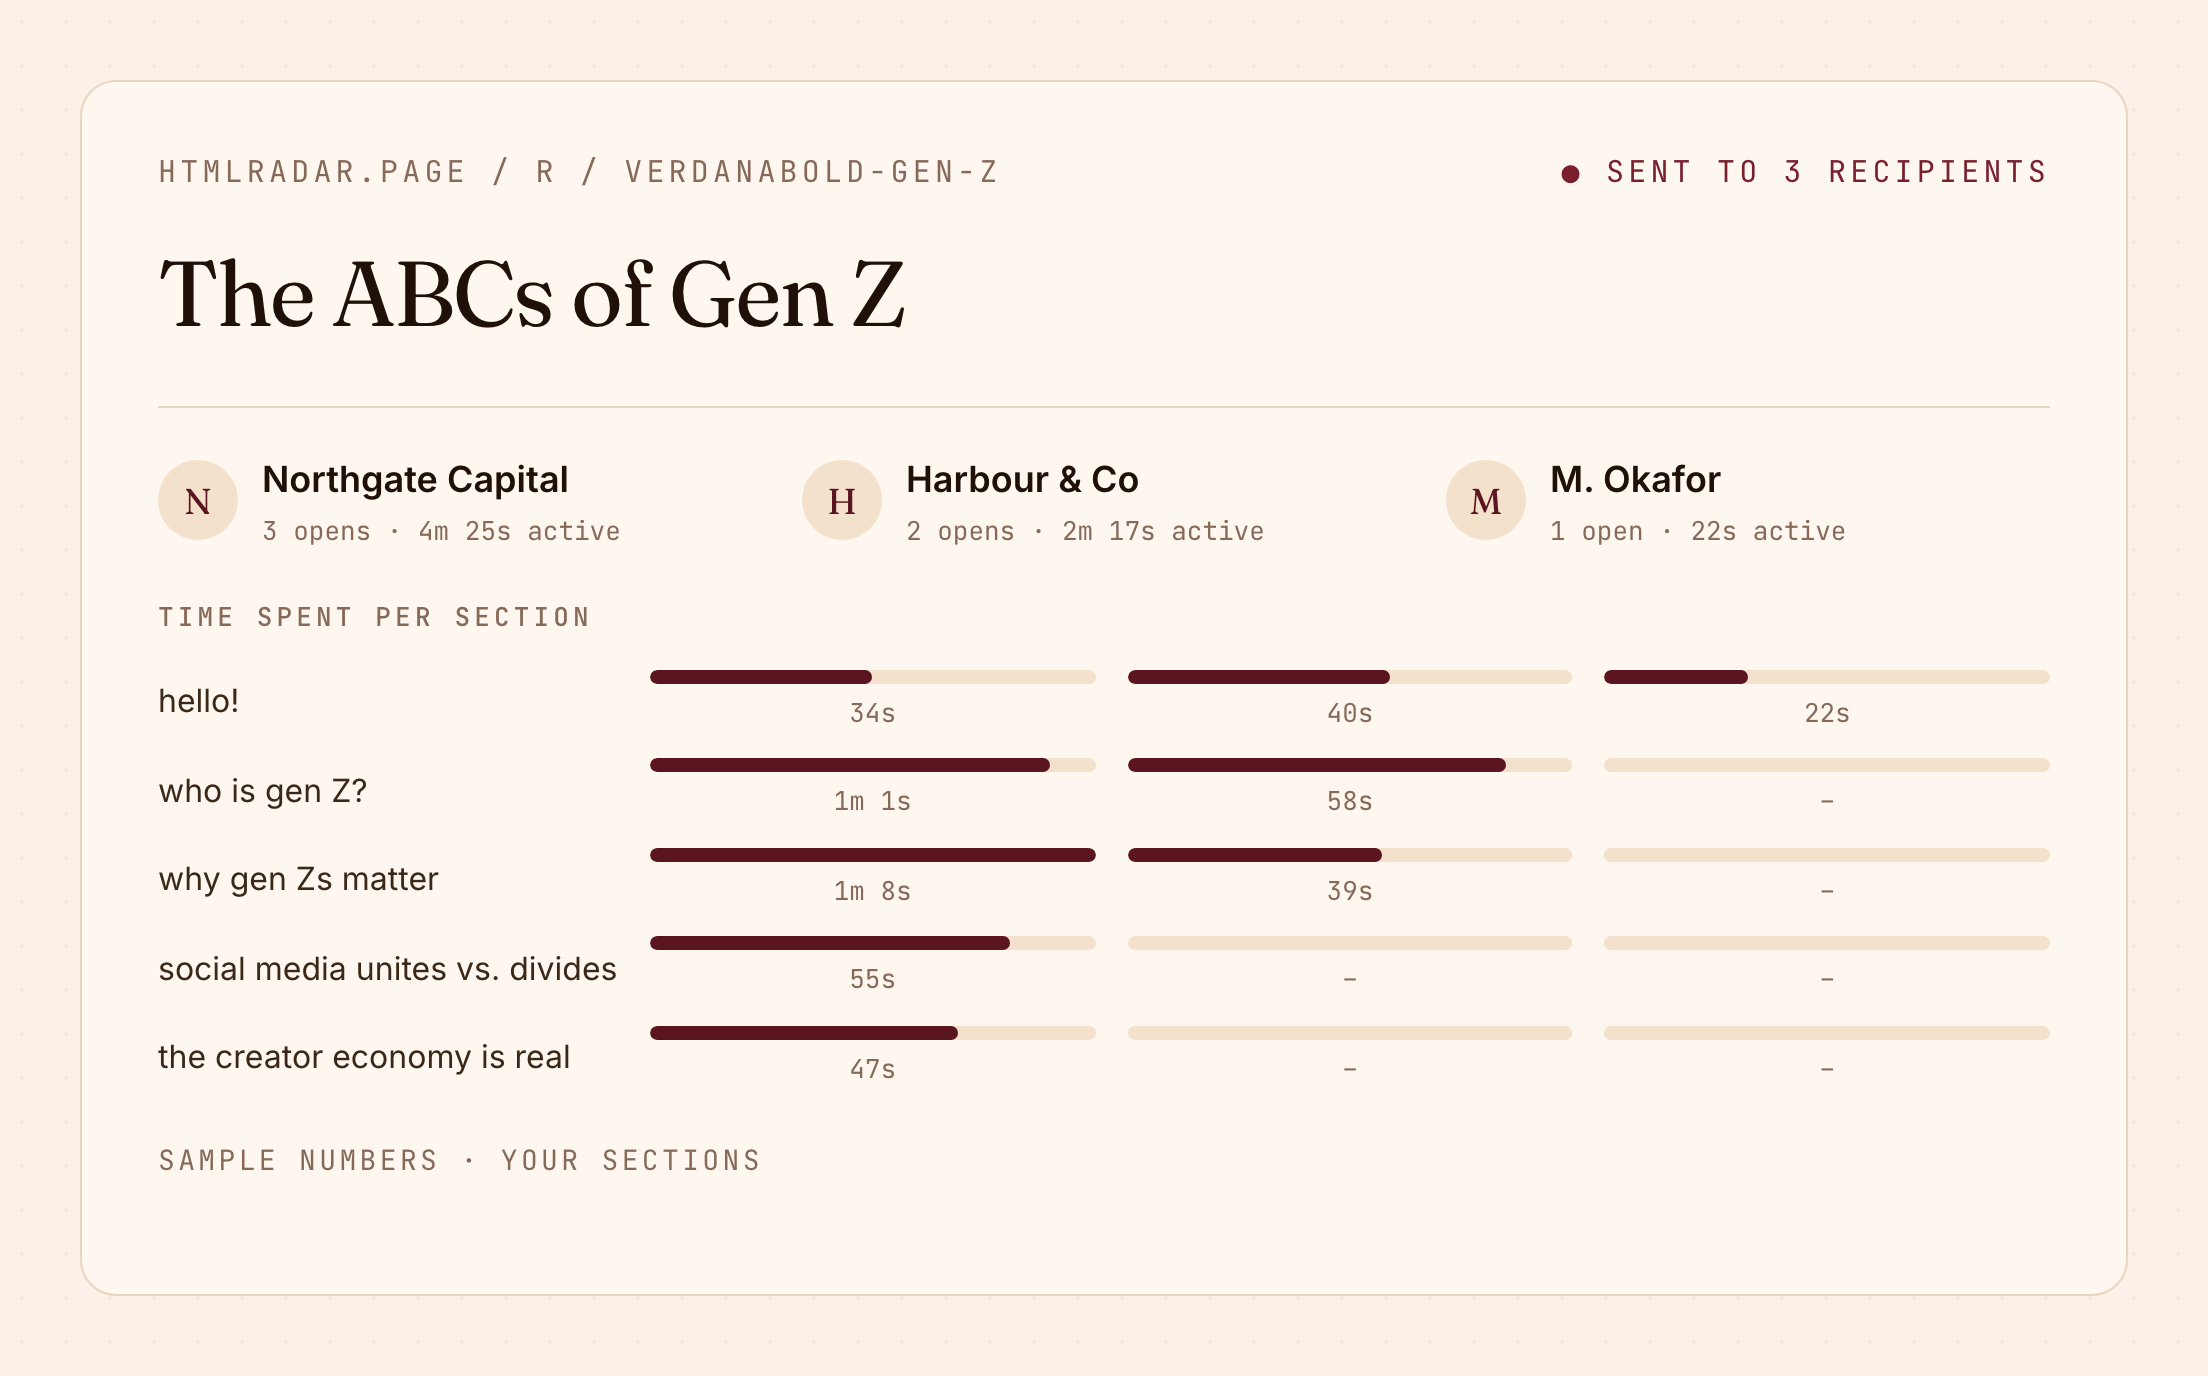
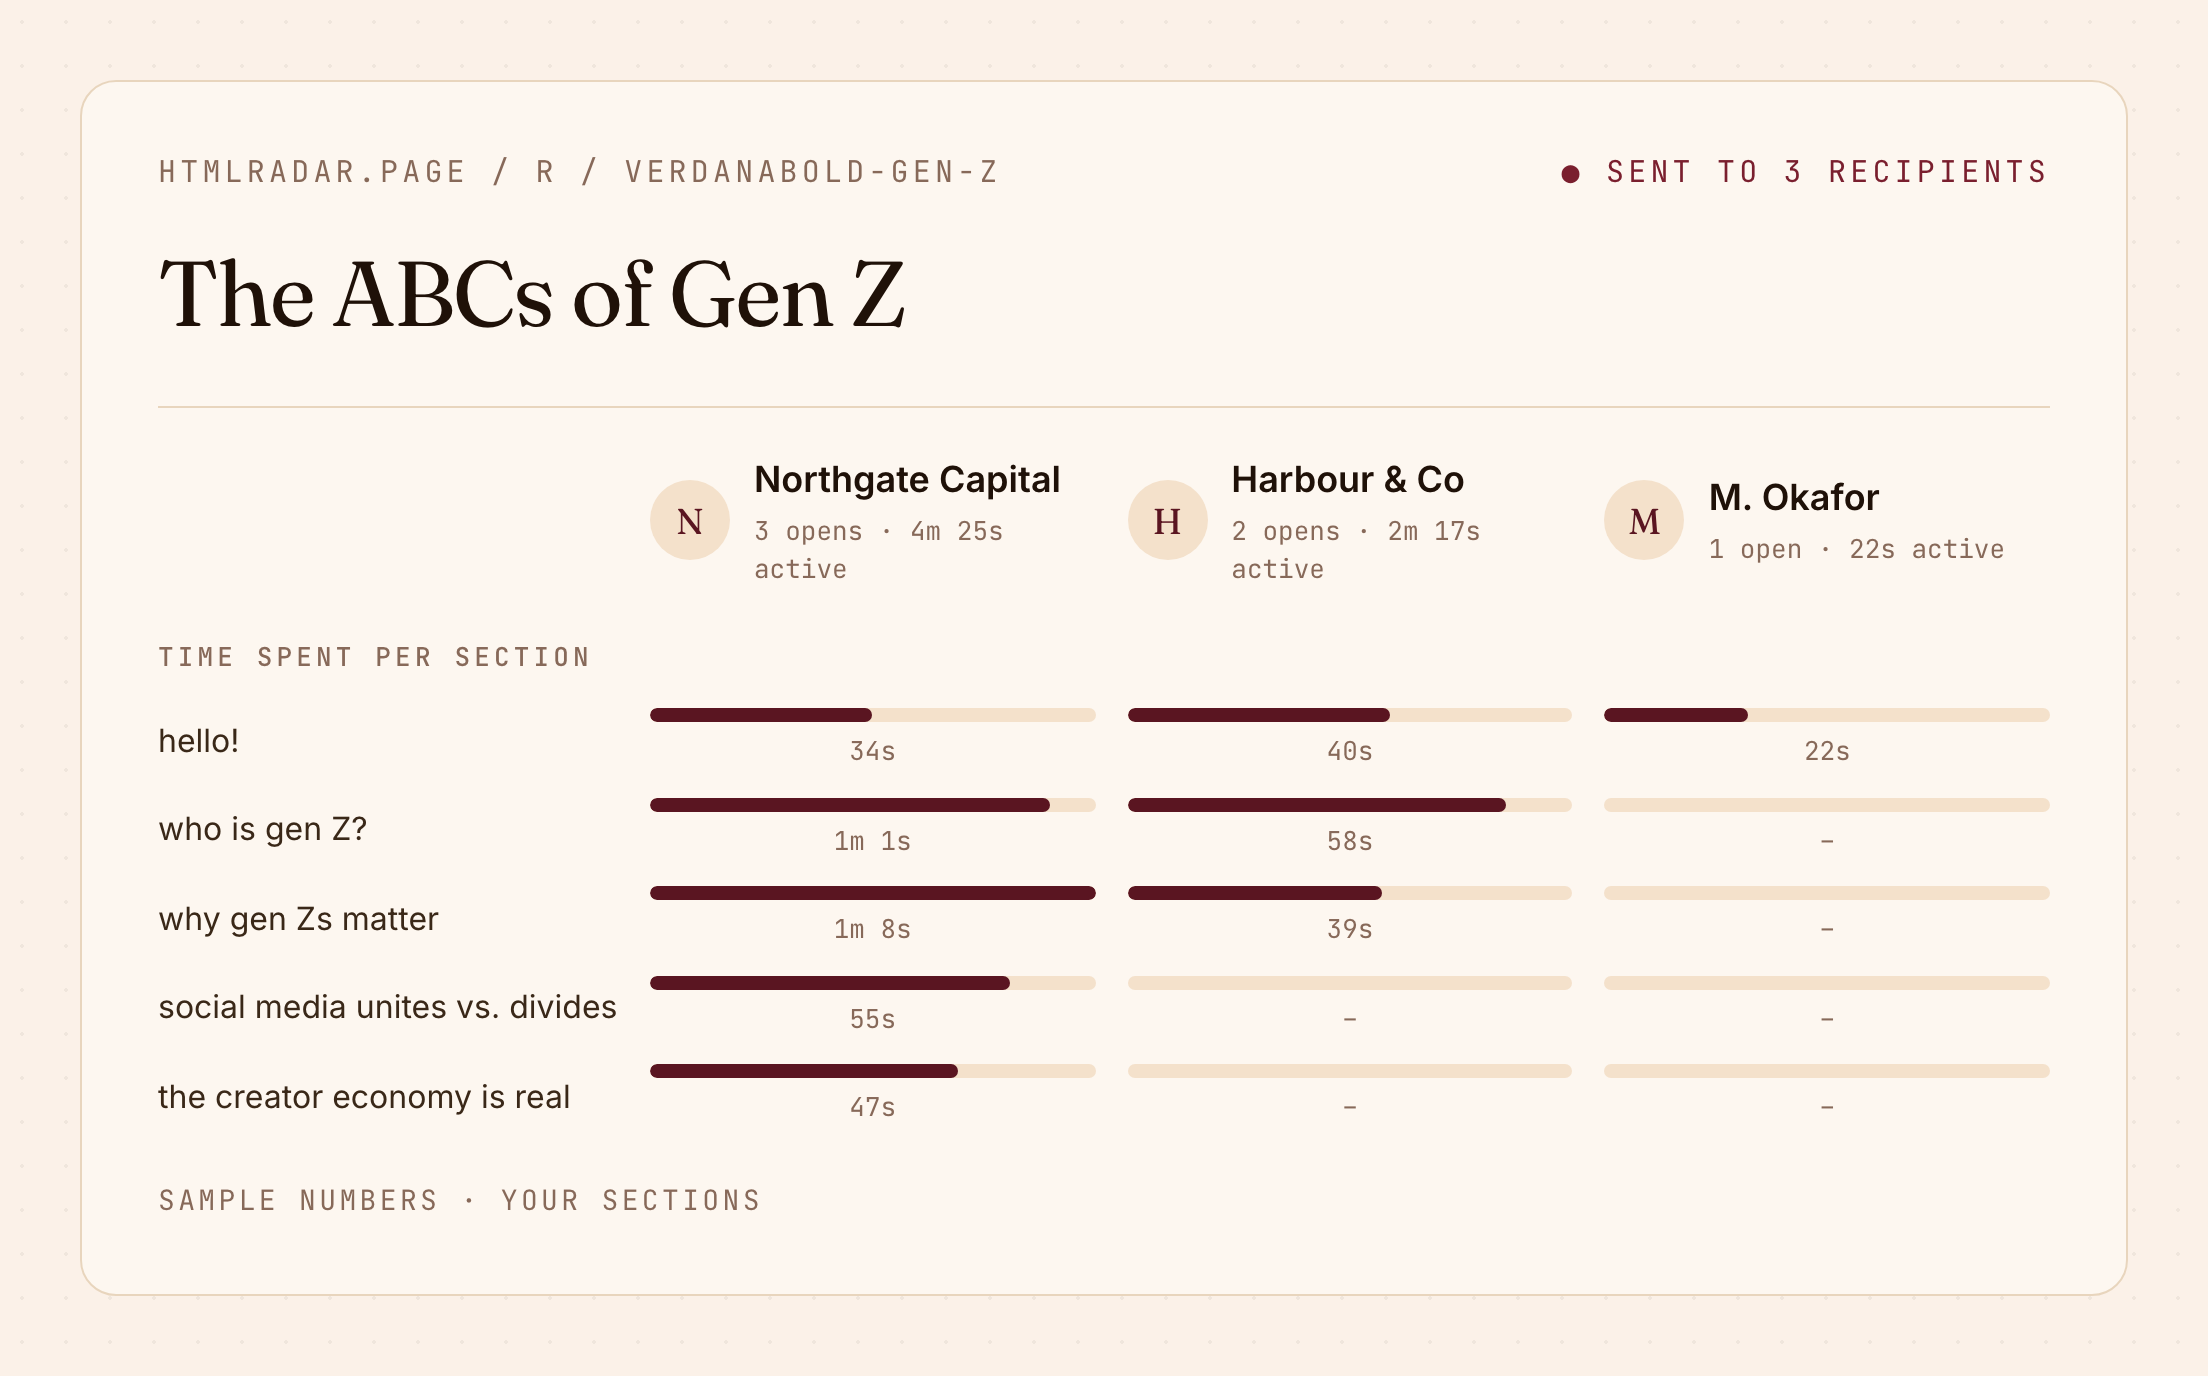
brand: outreach report cards, recipients aligned over their own columns

Changed region(s): [[0.0625, 0.4375, 0.9375, 0.875], [0.0625, 0.3125, 0.9062, 0.4375], [0.2188, 0.8125, 0.3438, 0.875]]

diff --git a/packages/app/scripts/onboarding-email-cards.html b/packages/app/scripts/onboarding-email-cards.html
@@ -276,13 +276,12 @@
       }
       /* ---- outreach report card: one deck, three recipients ---- */
       .orecipients {
-        display: flex;
-        justify-content: space-between;
-        gap: 20px;
+        display: grid;
+        grid-template-columns: 230px 1fr 1fr 1fr;
+        column-gap: 16px;
         margin-top: 22px;
       }
       .orecipient {
-        flex: 1;
         display: flex;
         align-items: center;
         gap: 12px;
@@ -315,20 +314,18 @@
         margin-top: 24px;
       }
       .orow {
-        display: flex;
+        display: grid;
+        grid-template-columns: 230px 1fr 1fr 1fr;
+        column-gap: 16px;
         align-items: center;
-        gap: 16px;
         margin-bottom: 13px;
       }
       .orow .onm {
-        width: 230px;
-        flex: none;
         font-size: 16px;
         line-height: 1.25;
         color: var(--ink-soft);
       }
       .ocell {
-        flex: 1;
         display: flex;
         flex-direction: column;
         gap: 5px;
@@ -562,6 +559,7 @@
         <div class="rtitle">Global Cities</div>
         <div class="rrule"></div>
         <div class="orecipients">
+          <div></div>
           <div class="orecipient">
             <div class="oravatar">N</div>
             <div>
@@ -675,6 +673,7 @@
         <div class="rtitle">The ABCs of Gen Z</div>
         <div class="rrule"></div>
         <div class="orecipients">
+          <div></div>
           <div class="orecipient">
             <div class="oravatar">N</div>
             <div>
@@ -788,6 +787,7 @@
         <div class="rtitle">Studio Storm Capabilities</div>
         <div class="rrule"></div>
         <div class="orecipients">
+          <div></div>
           <div class="orecipient">
             <div class="oravatar">N</div>
             <div>
